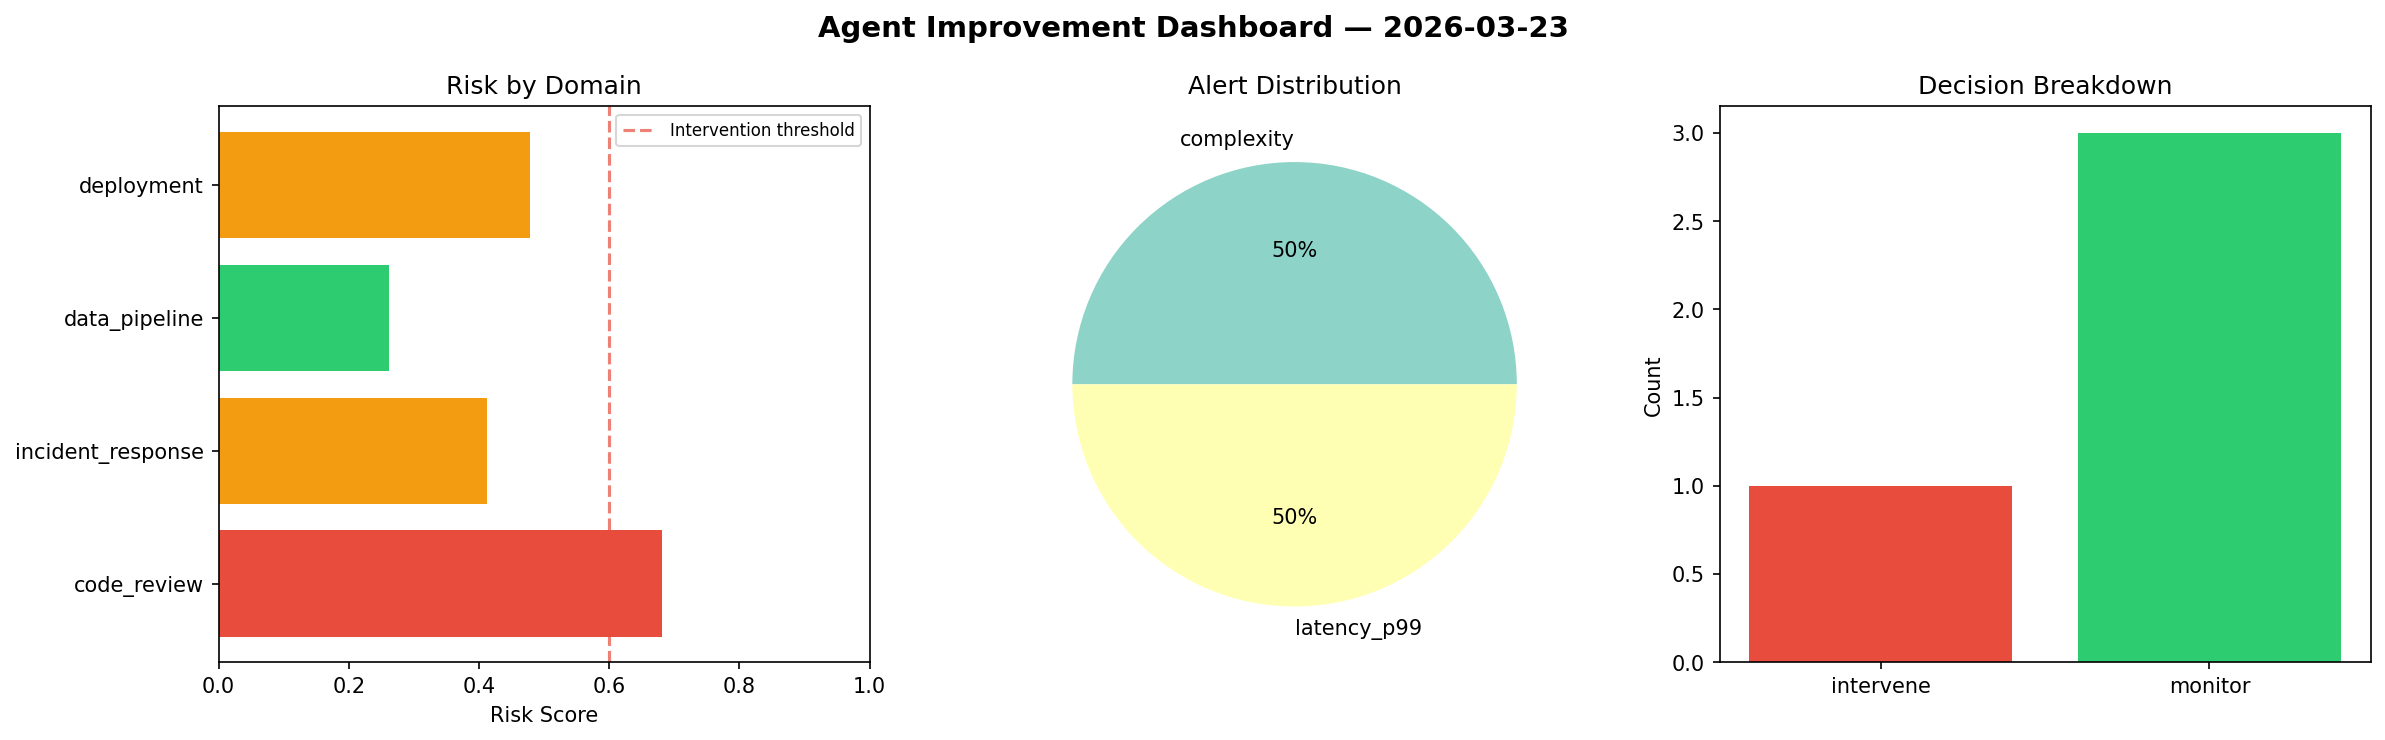
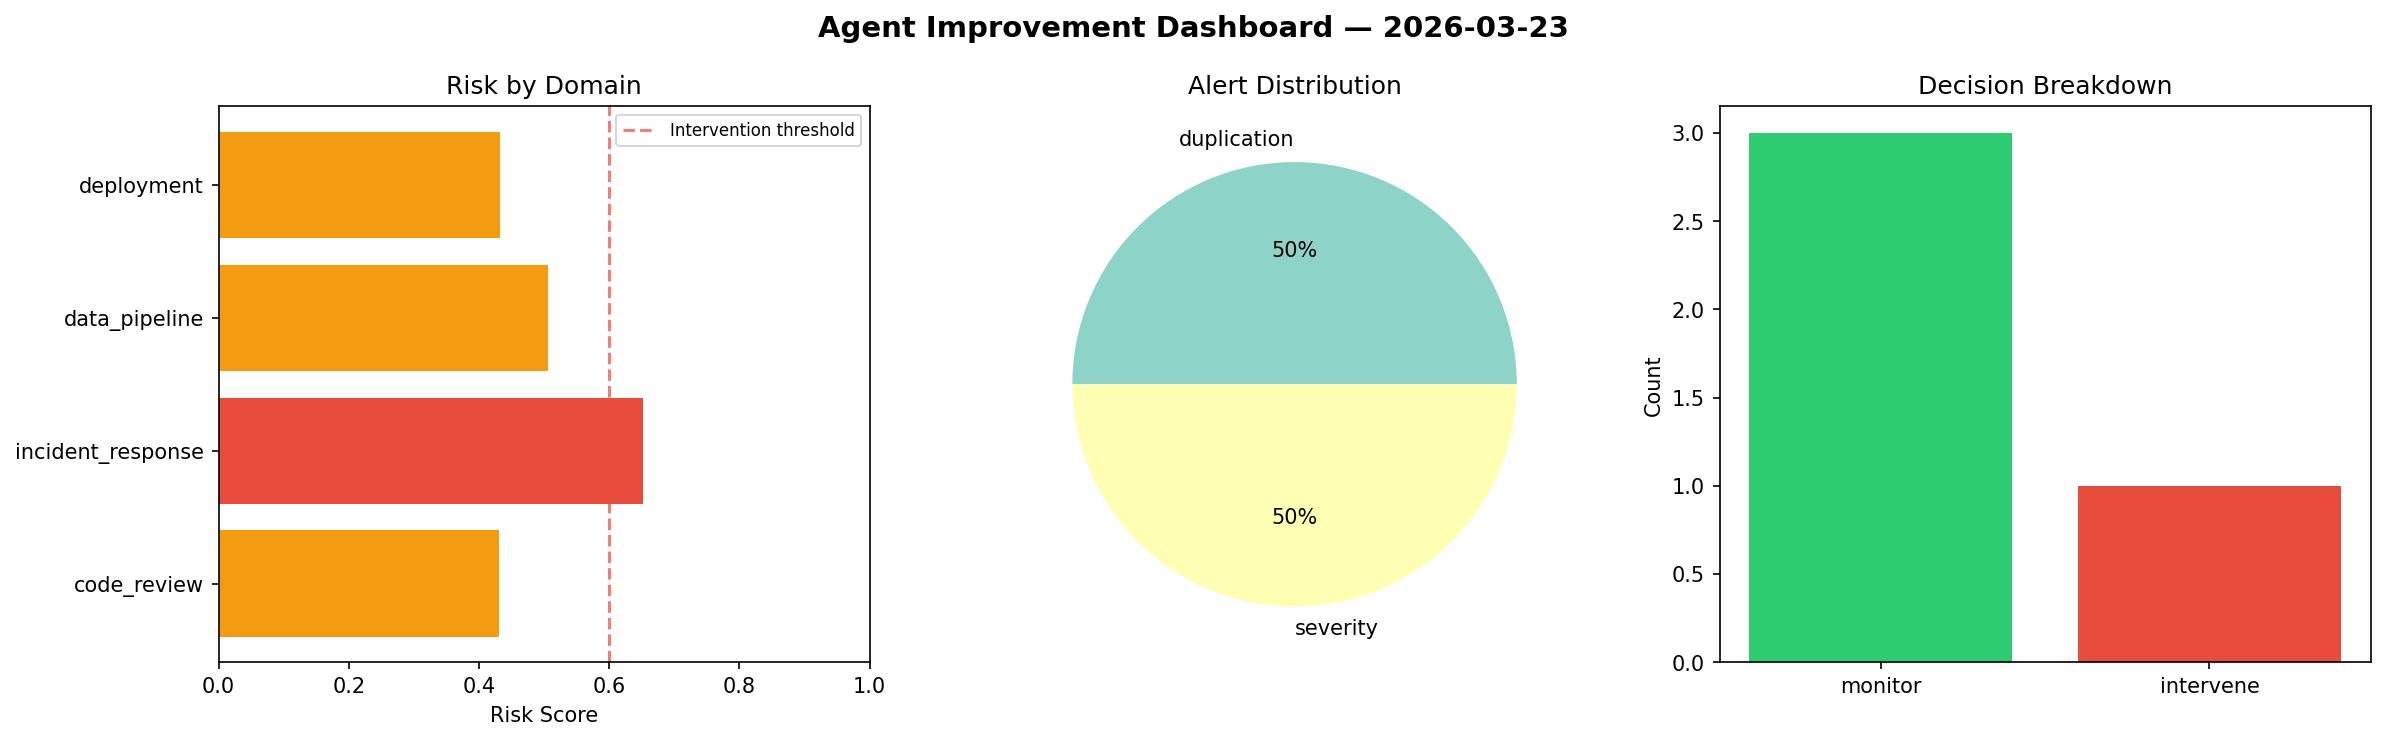
agent-improvement: daily cycle 2026-03-23T15:15

diff --git a/logs/2026-03-23.md b/logs/2026-03-23.md
@@ -1,6 +1,6 @@
 # Agent Improvement Report — 2026-03-23
 
-**Cycle ID:** `64095b34` | **Avg Risk:** 0.4583 | **Interventions:** 1/4
+**Cycle ID:** `3b611858` | **Avg Risk:** 0.5052 | **Interventions:** 1/4
 
 ![Dashboard](2026-03-23_dashboard.png)
 
@@ -10,18 +10,18 @@
 
 | Domain | Risk Score | Decision | Alerts |
 |--------|-----------|----------|--------|
-| code_review | 0.6809 | intervene | complexity |
-| incident_response | 0.4121 | monitor | none |
-| data_pipeline | 0.2618 | monitor | none |
-| deployment | 0.4783 | monitor | latency_p99 |
+| code_review | 0.4313 | monitor | duplication |
+| incident_response | 0.6513 | intervene | severity |
+| data_pipeline | 0.5061 | monitor | none |
+| deployment | 0.4322 | monitor | none |
 
 ## Delta vs Yesterday
 
 | Domain | Today | Yesterday | Change |
 |--------|-------|-----------|--------|
-| code_review | 0.6809 | 0.5345 | 📈 27.4% |
-| incident_response | 0.4121 | 0.3376 | 📈 22.1% |
-| data_pipeline | 0.2618 | 0.3568 | 📉 -26.6% |
-| deployment | 0.4783 | 0.4977 | 📉 -3.9% |
+| code_review | 0.4313 | 0.5345 | 📉 -19.3% |
+| incident_response | 0.6513 | 0.3376 | 📈 92.9% |
+| data_pipeline | 0.5061 | 0.3568 | 📈 41.8% |
+| deployment | 0.4322 | 0.4977 | 📉 -13.2% |
 
-**Refinement:** `{'adjustment': 'maintain', 'trend': 'improving', 'window': 4}`
+**Refinement:** `{'adjustment': 'tighten_thresholds', 'trend': 'degrading', 'window': 4}`
